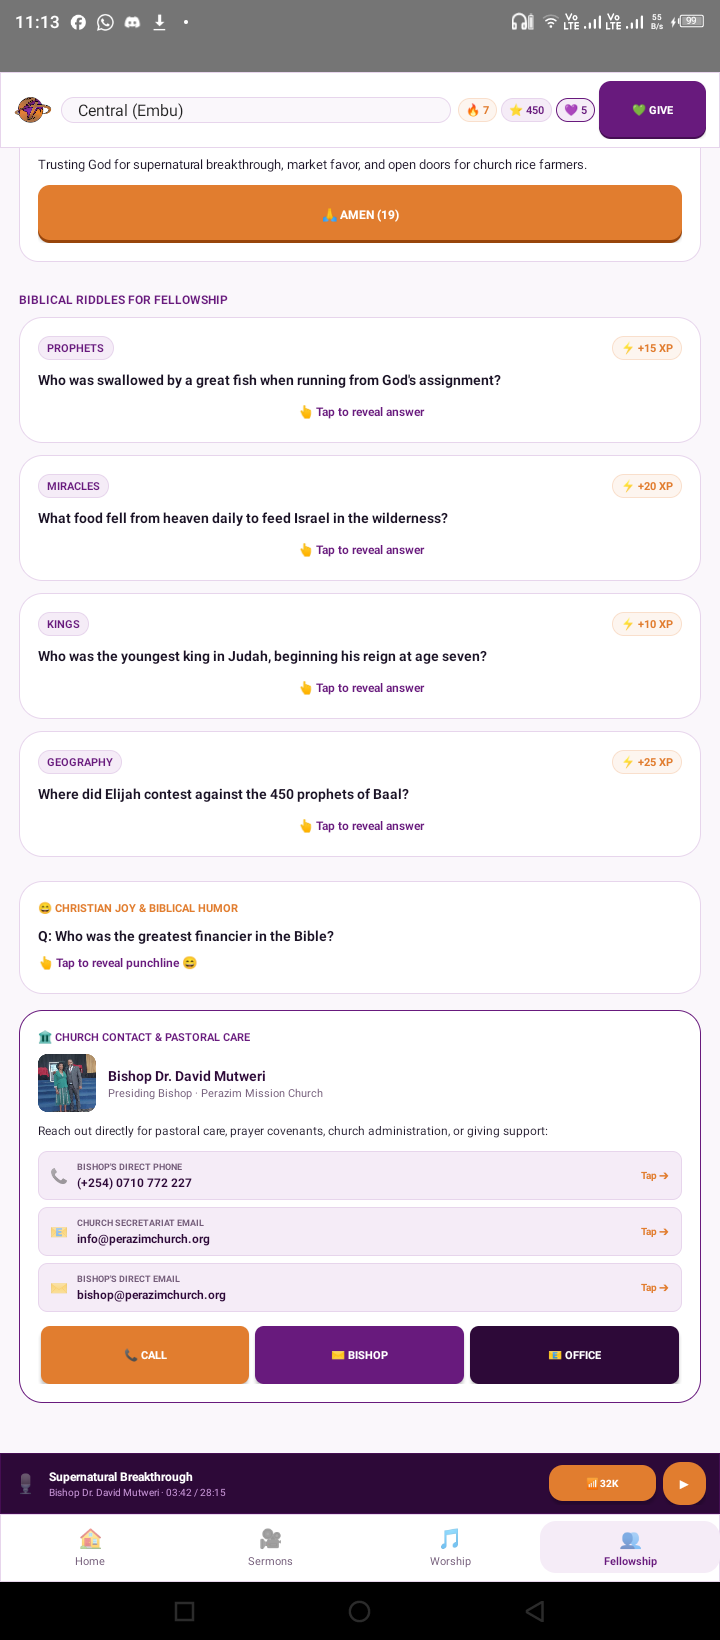
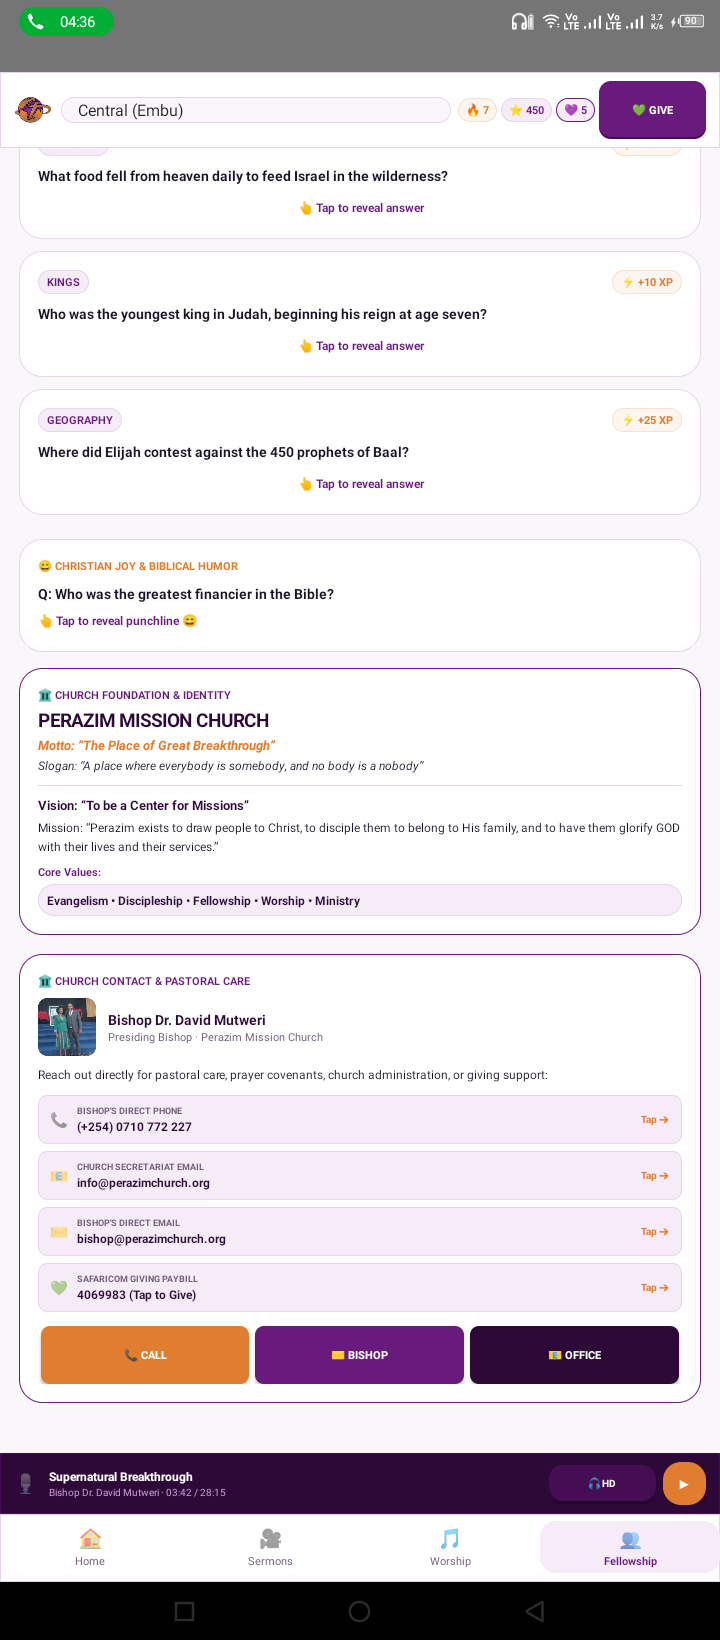
feat(identity): integrate canonical church name, motto, slogan, mission, vision, and core values

diff --git a/src/main/java/com/example/app/MainActivity.java b/src/main/java/com/example/app/MainActivity.java
@@ -514,18 +514,21 @@ public class MainActivity extends Activity implements View.OnClickListener, Dial
             content.addView(ivHero);
         }
 
-        // Welcome Header
-        TextView tvWelcome = new TextView(this);
-        tvWelcome.setText("Welcome back, Disciple");
-        tvWelcome.setTextSize(TypedValue.COMPLEX_UNIT_SP, 20);
-        tvWelcome.setTypeface(Typeface.DEFAULT_BOLD);
-        tvWelcome.setTextColor(COLOR_TEXT_DARK);
-        content.addView(tvWelcome);
+        // Canonical Church Identity & Welcome Header
+        TextView tvChurchHeader = new TextView(this);
+        tvChurchHeader.setText("PERAZIM MISSION CHURCH");
+        tvChurchHeader.setTextSize(TypedValue.COMPLEX_UNIT_SP, 22);
+        tvChurchHeader.setTypeface(Typeface.DEFAULT_BOLD);
+        tvChurchHeader.setTextColor(COLOR_PURPLE_DARK);
+        tvChurchHeader.setPadding(0, 0, 0, dp(2));
+        content.addView(tvChurchHeader);
 
         TextView tvSubGreeting = new TextView(this);
-        tvSubGreeting.setText("Baal-Perazim Breakthrough Walk · Embu Headquarters");
-        tvSubGreeting.setTextSize(TypedValue.COMPLEX_UNIT_SP, 13);
-        tvSubGreeting.setTextColor(COLOR_TEXT_MUTED);
+        tvSubGreeting.setText("“The Place of Great Breakthrough”\n“A place where everybody is somebody, and no body is a nobody”\nBaal-Perazim Breakthrough Walk · Embu Headquarters");
+        tvSubGreeting.setTextSize(TypedValue.COMPLEX_UNIT_SP, 12);
+        tvSubGreeting.setTypeface(Typeface.DEFAULT, Typeface.ITALIC);
+        tvSubGreeting.setTextColor(COLOR_PRIMARY_PURPLE);
+        tvSubGreeting.setLineSpacing(dp(2), 1.15f);
         tvSubGreeting.setPadding(0, dp(2), 0, dp(12));
         content.addView(tvSubGreeting);
 
@@ -1381,7 +1384,7 @@ public class MainActivity extends Activity implements View.OnClickListener, Dial
         previewCard.addView(verseQuote);
 
         TextView pastorAttribution = new TextView(this);
-        pastorAttribution.setText("Bishop Dr. David Mutweri · Embu, Kenya\n📞 (+254) 0710 772 227 · ✉ bishop@perazimchurch.org\n#GodOfTheBreakthrough");
+        pastorAttribution.setText("PERAZIM MISSION CHURCH — “The Place of Great Breakthrough”\nBishop Dr. David Mutweri · Embu, Kenya\n📞 (+254) 0710 772 227 · ✉ bishop@perazimchurch.org\n#GodOfTheBreakthrough");
         pastorAttribution.setTextSize(TypedValue.COMPLEX_UNIT_SP, 10);
         pastorAttribution.setTextColor(COLOR_ORANGE_BORDER);
         pastorAttribution.setGravity(Gravity.CENTER);
@@ -1432,14 +1435,16 @@ public class MainActivity extends Activity implements View.OnClickListener, Dial
         btnShareWA.setOnClickListener(v -> {
             try {
                 Intent sendIntent = new Intent(Intent.ACTION_SEND);
-                String shareBody = "✨ *PERAZIM MISSION CHURCH — VERSE OF THE DAY* ✨\n\n"
+                String shareBody = "✨ *PERAZIM MISSION CHURCH — “The Place of Great Breakthrough”* ✨\n\n"
                         + "“As waters break out, the LORD has broken out against my enemies before me — therefore he named that place Baal Perazim.”\n\n"
                         + "— *2 Samuel 5:20*\n\n"
-                        + "Bishop Dr. David Mutweri · Embu, Kenya\n"
+                        + "PERAZIM MISSION CHURCH — “The Place of Great Breakthrough”\n"
+                        + "“A place where everybody is somebody, and no body is a nobody”\n\n"
+                        + "Presiding Bishop Dr. David Mutweri · Embu, Kenya\n"
                         + "📞 Phone: (+254) 0710 772 227\n"
                         + "✉ Church: info@perazimchurch.org\n"
                         + "✉ Bishop: bishop@perazimchurch.org\n"
-                        + "💚 Paybill: 4069983\n\n"
+                        + "💚 Safaricom Paybill: 4069983\n\n"
                         + "Theme: Baal-Perazim / God of the Breakthrough\n\n"
                         + "#BaalPerazim #GodOfTheBreakthrough #PerazimMissionChurch";
                 sendIntent.putExtra(Intent.EXTRA_TEXT, shareBody);
@@ -1448,7 +1453,7 @@ public class MainActivity extends Activity implements View.OnClickListener, Dial
                 startActivity(sendIntent);
             } catch (Exception e) {
                 Intent chooser = new Intent(Intent.ACTION_SEND);
-                chooser.putExtra(Intent.EXTRA_TEXT, "“As waters break out, the LORD has broken out against my enemies before me.” — 2 Samuel 5:20\nBishop Dr. David Mutweri | Perazim Mission Church\nPhone: (+254) 0710 772 227 | Paybill: 4069983");
+                chooser.putExtra(Intent.EXTRA_TEXT, "“As waters break out, the LORD has broken out against my enemies before me.” — 2 Samuel 5:20\nPERAZIM MISSION CHURCH — “The Place of Great Breakthrough”\nPresiding Bishop Dr. David Mutweri | Phone: (+254) 0710 772 227 | Paybill: 4069983");
                 chooser.setType("text/plain");
                 startActivity(Intent.createChooser(chooser, "Share Breakthrough Verse"));
             }
@@ -1469,7 +1474,7 @@ public class MainActivity extends Activity implements View.OnClickListener, Dial
             android.content.ClipboardManager clipboard = (android.content.ClipboardManager) getSystemService(Context.CLIPBOARD_SERVICE);
             android.content.ClipData clip = android.content.ClipData.newPlainText(
                     "Breakthrough Verse",
-                    "“As waters break out, the LORD has broken out against my enemies before me.” — 2 Samuel 5:20 (Perazim Mission Church)"
+                    "“As waters break out, the LORD has broken out against my enemies before me.” — 2 Samuel 5:20 (PERAZIM MISSION CHURCH — “The Place of Great Breakthrough”)"
             );
             clipboard.setPrimaryClip(clip);
             Toast.makeText(this, "Scripture copied to clipboard! Ready to paste on WhatsApp.", Toast.LENGTH_SHORT).show();
@@ -2047,12 +2052,94 @@ public class MainActivity extends Activity implements View.OnClickListener, Dial
         });
         content.addView(humorCard);
 
+        // 6. CHURCH FOUNDATION & IDENTITY CARD
+        LinearLayout identityCard = createCard(COLOR_WHITE, dp(16), COLOR_PRIMARY_PURPLE, dp(1));
+        identityCard.setOrientation(LinearLayout.VERTICAL);
+        LinearLayout.LayoutParams lpIdentity = new LinearLayout.LayoutParams(
+                LinearLayout.LayoutParams.MATCH_PARENT, LinearLayout.LayoutParams.WRAP_CONTENT);
+        lpIdentity.setMargins(0, dp(14), 0, dp(6));
+        identityCard.setLayoutParams(lpIdentity);
+
+        TextView tvIdTag = new TextView(this);
+        tvIdTag.setText("🏛 CHURCH FOUNDATION & IDENTITY");
+        tvIdTag.setTextSize(TypedValue.COMPLEX_UNIT_SP, 11);
+        tvIdTag.setTypeface(Typeface.DEFAULT_BOLD);
+        tvIdTag.setTextColor(COLOR_PRIMARY_PURPLE);
+        identityCard.addView(tvIdTag);
+
+        TextView tvIdTitle = new TextView(this);
+        tvIdTitle.setText("PERAZIM MISSION CHURCH");
+        tvIdTitle.setTextSize(TypedValue.COMPLEX_UNIT_SP, 18);
+        tvIdTitle.setTypeface(Typeface.DEFAULT_BOLD);
+        tvIdTitle.setTextColor(COLOR_PURPLE_DARK);
+        tvIdTitle.setPadding(0, dp(4), 0, dp(2));
+        identityCard.addView(tvIdTitle);
+
+        TextView tvMotto = new TextView(this);
+        tvMotto.setText("Motto: “The Place of Great Breakthrough”");
+        tvMotto.setTextSize(TypedValue.COMPLEX_UNIT_SP, 13);
+        tvMotto.setTypeface(Typeface.DEFAULT, Typeface.BOLD_ITALIC);
+        tvMotto.setTextColor(COLOR_ACCENT_ORANGE);
+        tvMotto.setPadding(0, 0, 0, dp(2));
+        identityCard.addView(tvMotto);
+
+        TextView tvSlogan = new TextView(this);
+        tvSlogan.setText("Slogan: “A place where everybody is somebody, and no body is a nobody”");
+        tvSlogan.setTextSize(TypedValue.COMPLEX_UNIT_SP, 12);
+        tvSlogan.setTypeface(Typeface.DEFAULT, Typeface.ITALIC);
+        tvSlogan.setTextColor(COLOR_TEXT_DARK);
+        tvSlogan.setPadding(0, 0, 0, dp(8));
+        identityCard.addView(tvSlogan);
+
+        View sepId = new View(this);
+        sepId.setBackgroundColor(COLOR_BORDER_GREY);
+        LinearLayout.LayoutParams lpSepId = new LinearLayout.LayoutParams(
+                ViewGroup.LayoutParams.MATCH_PARENT, dp(1));
+        lpSepId.setMargins(0, dp(2), 0, dp(8));
+        sepId.setLayoutParams(lpSepId);
+        identityCard.addView(sepId);
+
+        TextView tvVision = new TextView(this);
+        tvVision.setText("Vision: “To be a Center for Missions”");
+        tvVision.setTextSize(TypedValue.COMPLEX_UNIT_SP, 13);
+        tvVision.setTypeface(Typeface.DEFAULT_BOLD);
+        tvVision.setTextColor(COLOR_PURPLE_DARK);
+        tvVision.setPadding(0, 0, 0, dp(4));
+        identityCard.addView(tvVision);
+
+        TextView tvMission = new TextView(this);
+        tvMission.setText("Mission: “Perazim exists to draw people to Christ, to disciple them to belong to His family, and to have them glorify GOD with their lives and their services.”");
+        tvMission.setTextSize(TypedValue.COMPLEX_UNIT_SP, 12);
+        tvMission.setTextColor(COLOR_TEXT_DARK);
+        tvMission.setLineSpacing(dp(2), 1.15f);
+        tvMission.setPadding(0, 0, 0, dp(8));
+        identityCard.addView(tvMission);
+
+        TextView tvValuesLabel = new TextView(this);
+        tvValuesLabel.setText("Core Values:");
+        tvValuesLabel.setTextSize(TypedValue.COMPLEX_UNIT_SP, 11);
+        tvValuesLabel.setTypeface(Typeface.DEFAULT_BOLD);
+        tvValuesLabel.setTextColor(COLOR_PRIMARY_PURPLE);
+        tvValuesLabel.setPadding(0, 0, 0, dp(4));
+        identityCard.addView(tvValuesLabel);
+
+        TextView tvValues = new TextView(this);
+        tvValues.setText("Evangelism • Discipleship • Fellowship • Worship • Ministry");
+        tvValues.setTextSize(TypedValue.COMPLEX_UNIT_SP, 12);
+        tvValues.setTypeface(Typeface.DEFAULT_BOLD);
+        tvValues.setTextColor(COLOR_PURPLE_DARK);
+        tvValues.setBackground(createPillBg(COLOR_PURPLE_TINT, COLOR_BORDER_GREY));
+        tvValues.setPadding(dp(8), dp(6), dp(8), dp(6));
+        identityCard.addView(tvValues);
+
+        content.addView(identityCard);
+
         // 7. CHURCH CONTACT & PASTORAL CARE SECTION
         LinearLayout contactCard = createCard(COLOR_WHITE, dp(16), COLOR_PRIMARY_PURPLE, dp(1));
         contactCard.setOrientation(LinearLayout.VERTICAL);
         LinearLayout.LayoutParams lpContact = new LinearLayout.LayoutParams(
                 LinearLayout.LayoutParams.MATCH_PARENT, LinearLayout.LayoutParams.WRAP_CONTENT);
-        lpContact.setMargins(0, dp(14), 0, dp(10));
+        lpContact.setMargins(0, dp(10), 0, dp(10));
         contactCard.setLayoutParams(lpContact);
 
         // Section Tag
@@ -2114,6 +2201,9 @@ public class MainActivity extends Activity implements View.OnClickListener, Dial
 
         LinearLayout rowBishopEmail = createInteractiveContactRow("✉", "Bishop's Direct Email", "bishop@perazimchurch.org", v -> sendEmail("bishop@perazimchurch.org", "Pastoral Care / Counseling"));
         contactCard.addView(rowBishopEmail);
+
+        LinearLayout rowPaybill = createInteractiveContactRow("💚", "Safaricom Giving Paybill", "4069983 (Tap to Give)", v -> showGivingDialog());
+        contactCard.addView(rowPaybill);
 
         // Quick Action Buttons
         LinearLayout contactButtonsRow = new LinearLayout(this);

diff --git a/README.md b/README.md
@@ -1,4 +1,4 @@
-# Perazim Mission Church — Official Android Application
+# PERAZIM MISSION CHURCH — Official Android Application
 
 [![Build Status](https://github.com/lmurugu/perazim-android/actions/workflows/build.yml/badge.svg)](https://github.com/lmurugu/perazim-android/actions)
 [![Platform](https://img.shields.io/badge/Platform-Android%20API%2026--34-brightgreen.svg)](https://developer.android.com)
@@ -6,13 +6,31 @@
 [![License: MIT](https://img.shields.io/badge/License-MIT-yellow.svg)](LICENSE)
 [![Architecture](https://img.shields.io/badge/Architecture-Native%20Android-blue.svg)](https://developer.android.com)
 
-> *"Experience the Baal-Perazim Breakthrough Walk, stream sermons in data-saver mode, intercede on the Community Prayer Wall, access chorded church hymns, and give securely via M-Pesa."*
+> **Motto**: *“The Place of Great Breakthrough”*  
+> **Slogan**: *“A place where everybody is somebody, and no body is a nobody”*
 
 ---
 
-### Leadership Attribution
-**Presiding Bishop Dr. David Mutweri**  
-Central Campus Embu, Kenya  
+## 🏛 Church Foundation & Canonical Identity
+
+**PERAZIM MISSION CHURCH** is established on the covenant foundation of David's breakthrough at Baal-Perazim (*“As waters break out, the LORD has broken out against my enemies before me” — 2 Samuel 5:20*), headquartered in Embu, Kenya, and reaching the global community.
+
+- **Church Name**: **PERAZIM MISSION CHURCH**
+- **Motto**: *“The Place of Great Breakthrough”*
+- **Slogan**: *“A place where everybody is somebody, and no body is a nobody”*
+- **Vision**: *“To be a Center for Missions”*
+- **Mission Statement**: *“Perazim exists to draw people to Christ, to disciple them to belong to His family, and to have them glorify GOD with their lives and their services.”*
+- **Core Values**: `Evangelism` • `Discipleship` • `Fellowship` • `Worship` • `Ministry`
+
+---
+
+### Leadership & Secretariat Attribution
+- **Presiding Bishop**: **Dr. David Mutweri**  
+- **Bishop Direct Phone**: `(+254) 0710 772 227`  
+- **Bishop Direct Email**: `bishop@perazimchurch.org`  
+- **Church Secretariat Email**: `info@perazimchurch.org`  
+- **Central Headquarters**: Embu, Kenya  
+- **Safaricom Paybill**: `4069983`  
 *Perazim Mission Church Global Ministries*
 
 ---
